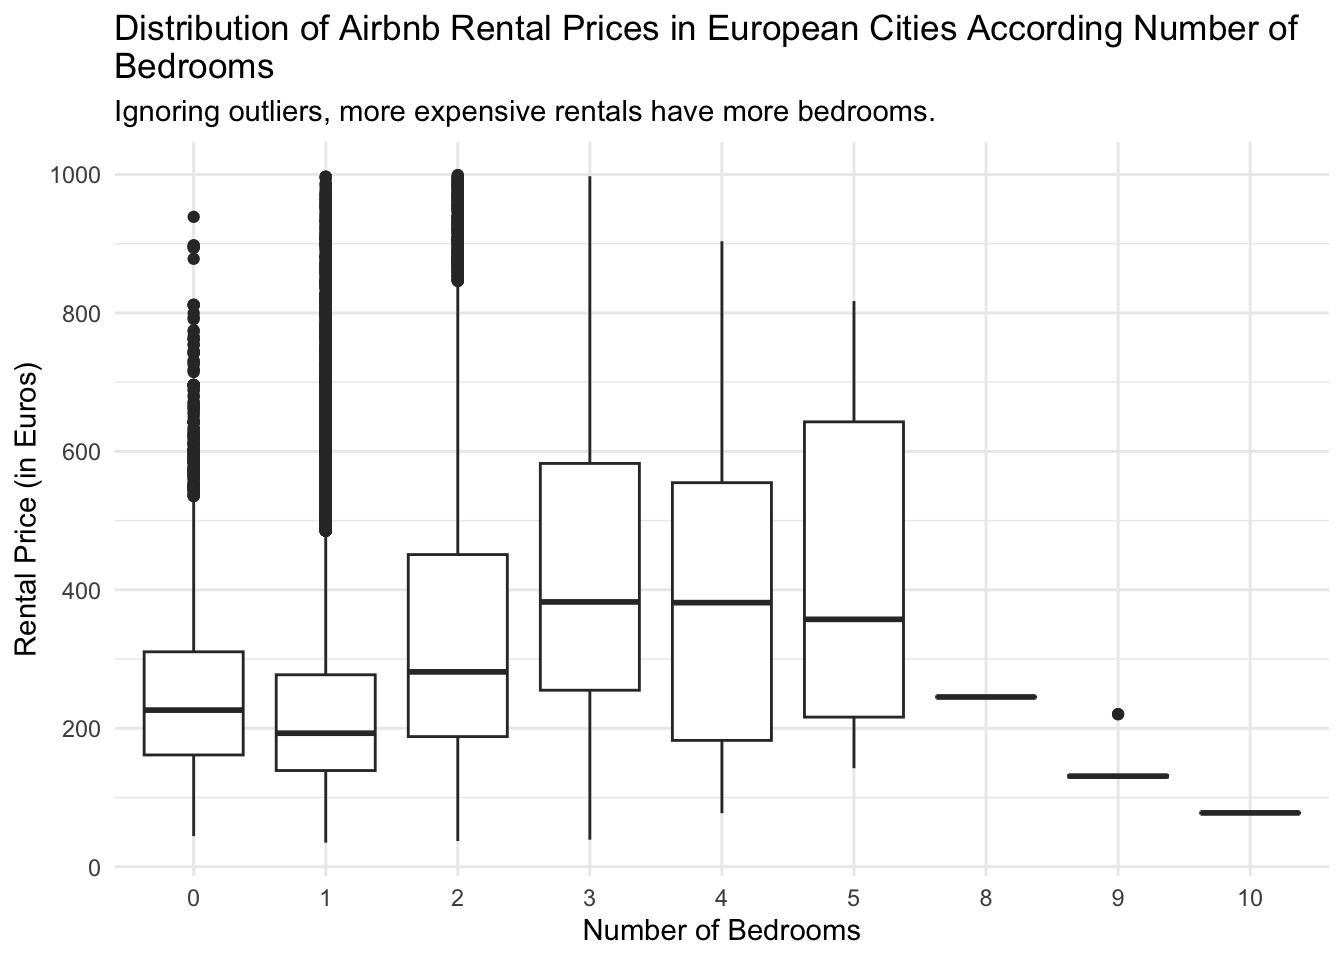
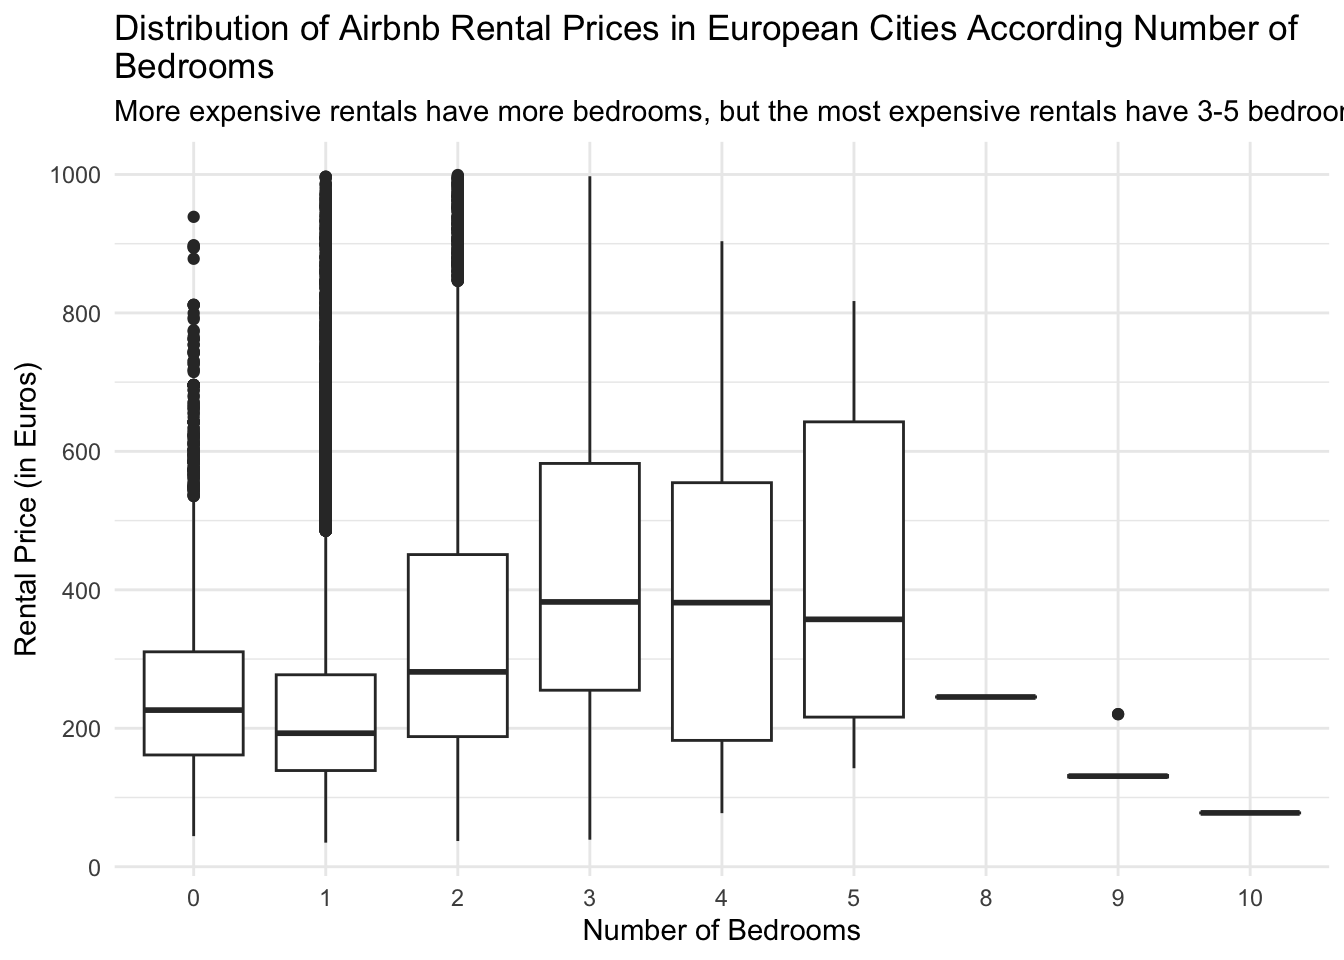
Built site for gh-pages

Changed region(s): [[0.0938, 0.0938, 1.0, 0.125]]

diff --git a/index.html b/index.html
@@ -146,6 +146,7 @@ ul.task-list li input[type="checkbox"] {
 </div>
 </div>
 </div>
+<p>After noticing the surprising difference in the price of rentals in Amsterdam and elsewhere, I decided to compare listings in Amsterdam and London across different categories which may influence price in an effort to understand why Amsterdam listing prices are so much higher than notoriously expensive cities like London.</p>
 <div class="cell">
 <div class="cell-output-display">
 <div>
@@ -183,6 +184,7 @@ ul.task-list li input[type="checkbox"] {
 </div>
 </div>
 </div>
+<p>Rentals closer to city centers tend to be more expensive than rentals farther from city centers. Most Amsterdam rentals are closer to the city center, while some London Airbnbs are much farther from the city center. Thus, Amsterdam rentals may be more expensive on average than London rentals because they tend to be closer to the city center.</p>
 <div class="cell">
 <div class="cell-output-display">
 <div>
@@ -220,6 +222,7 @@ ul.task-list li input[type="checkbox"] {
 </div>
 </div>
 </div>
+<p>Generally, Airbnbs closer to metro stations are more expensive than ones farther from metro stations. In Amsterdam, rentals are closer to stations than in London, indicating the listings in Amsterdam may be more expensive than those in London because they tend to be closer to metro stations.</p>
 <div class="cell">
 <div class="cell-output-display">
 <div>
@@ -250,6 +253,7 @@ ul.task-list li input[type="checkbox"] {
 </div>
 </div>
 </div>
+<p>Rentals with more bedrooms tend to be more expensive than those with fewer rooms. Compared to Amsterdam Airbnbs, a relatively large proportion of rentals in London only contain one room. Thus the difference in average rental price between the two cities could be attributed to more London rentals having fewer bedrooms.</p>
 <div class="cell">
 <div class="cell-output-display">
 <div>
@@ -280,7 +284,8 @@ ul.task-list li input[type="checkbox"] {
 </div>
 </div>
 </div>
-<p>Over the last several years Airbnb vacation rentals have been rising in popularity across all major European cities. Using Airbnb listing data compiled by researchers at the University of Warsaw, I seek to understand the factors contributing high guest satisfaction ratings and how those factors differ across European cities. The Airbnb listings in Amsterdam are much more expensive than rentals in other European cities; even in nutouriously expensive cities like London. By examining trends in distance to city center, distance to the nearest metro station, number of bedrooms, and types of rentals, I determined this surprising differnce between the average price of rentals in Amsterdam and London can be attributed to rentals in London being smaller, farther from tourist destinations like the city center, and less convienently located by metro stations.</p>
+<p>Entire home/apt rentals have a higher median price than smaller rentals (private and shared rooms). Amsterdam rentals may have a higher average price than London rentals because most rentals in Amsterdam are entire homes/apts, while most London rentals are just private rooms.</p>
+<p>Over the last several years Airbnb vacation rentals have been rising in popularity across all major European cities. The Airbnb listings in Amsterdam are much more expensive than rentals in other European cities, even famously expensive cities like London. I seek to understand why rentals in Amsterdam are so expensive in comparision to other European cities- London in perticular. By examining trends in distance to city center, distance to the nearest metro station, number of bedrooms, and types of rentals, I determined this surprising differnce between the average price of rentals in Amsterdam and London can be attributed to rentals in London being smaller, farther from tourist destinations like the city center, and less convienently located by metro stations. However, it is important to note that one major reason for the difference in average rental price between these two cities could be that there are significantly more London Airbnb data points than Amsterdam data points, meaning the Lomdon data is more representative.</p>
 
 
 
